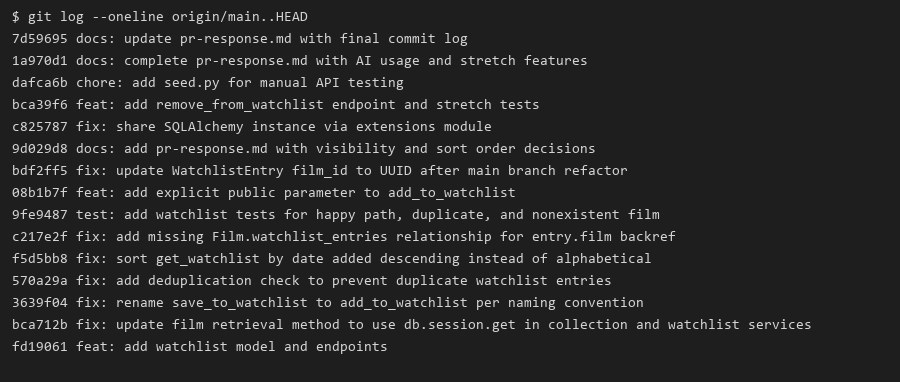
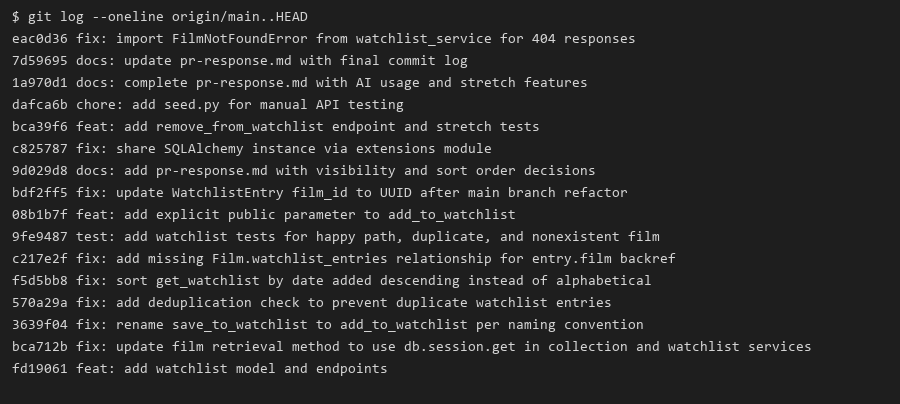
docs: embed git log screenshot and update commit count

Changed region(s): [[0.0, 0.0864, 0.9022, 0.9215], [0.0, 0.0288, 0.3422, 0.0576]]

diff --git a/pr-response.md b/pr-response.md
@@ -69,6 +69,7 @@ I did **not** ask AI to write the deduplication logic or the design decisions wh
 ![Git log screenshot](git-log-screenshot.png)
 
 ```
+eac0d36 fix: import FilmNotFoundError from watchlist_service for 404 responses
 7d59695 docs: update pr-response.md with final commit log
 1a970d1 docs: complete pr-response.md with AI usage and stretch features
 dafca6b chore: add seed.py for manual API testing
@@ -86,7 +87,7 @@ bca712b fix: update film retrieval method to use db.session.get in collection an
 fd19061 feat: add watchlist model and endpoints
 ```
 
-> **Git log screenshot:** Embedded above. 15 conventional commits, zero merge commits.
+> **Git log screenshot:** Embedded above. 16 conventional commits, zero merge commits.
 
 ## PR Description
 
